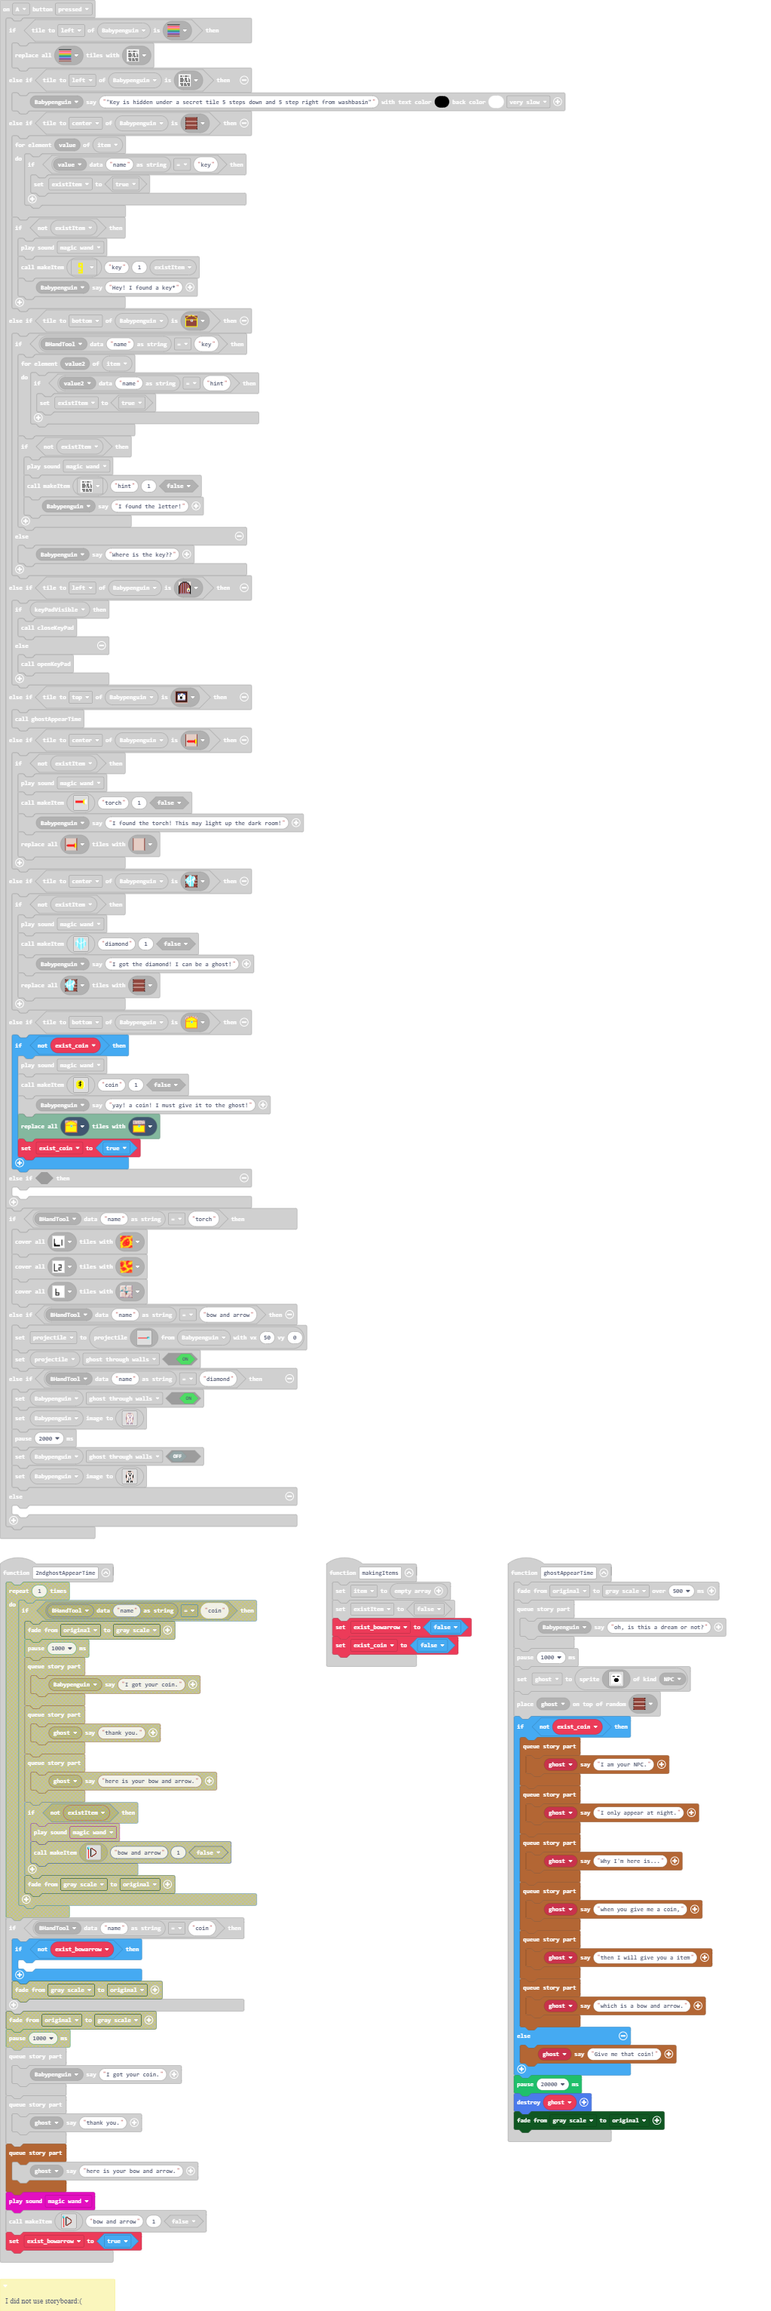
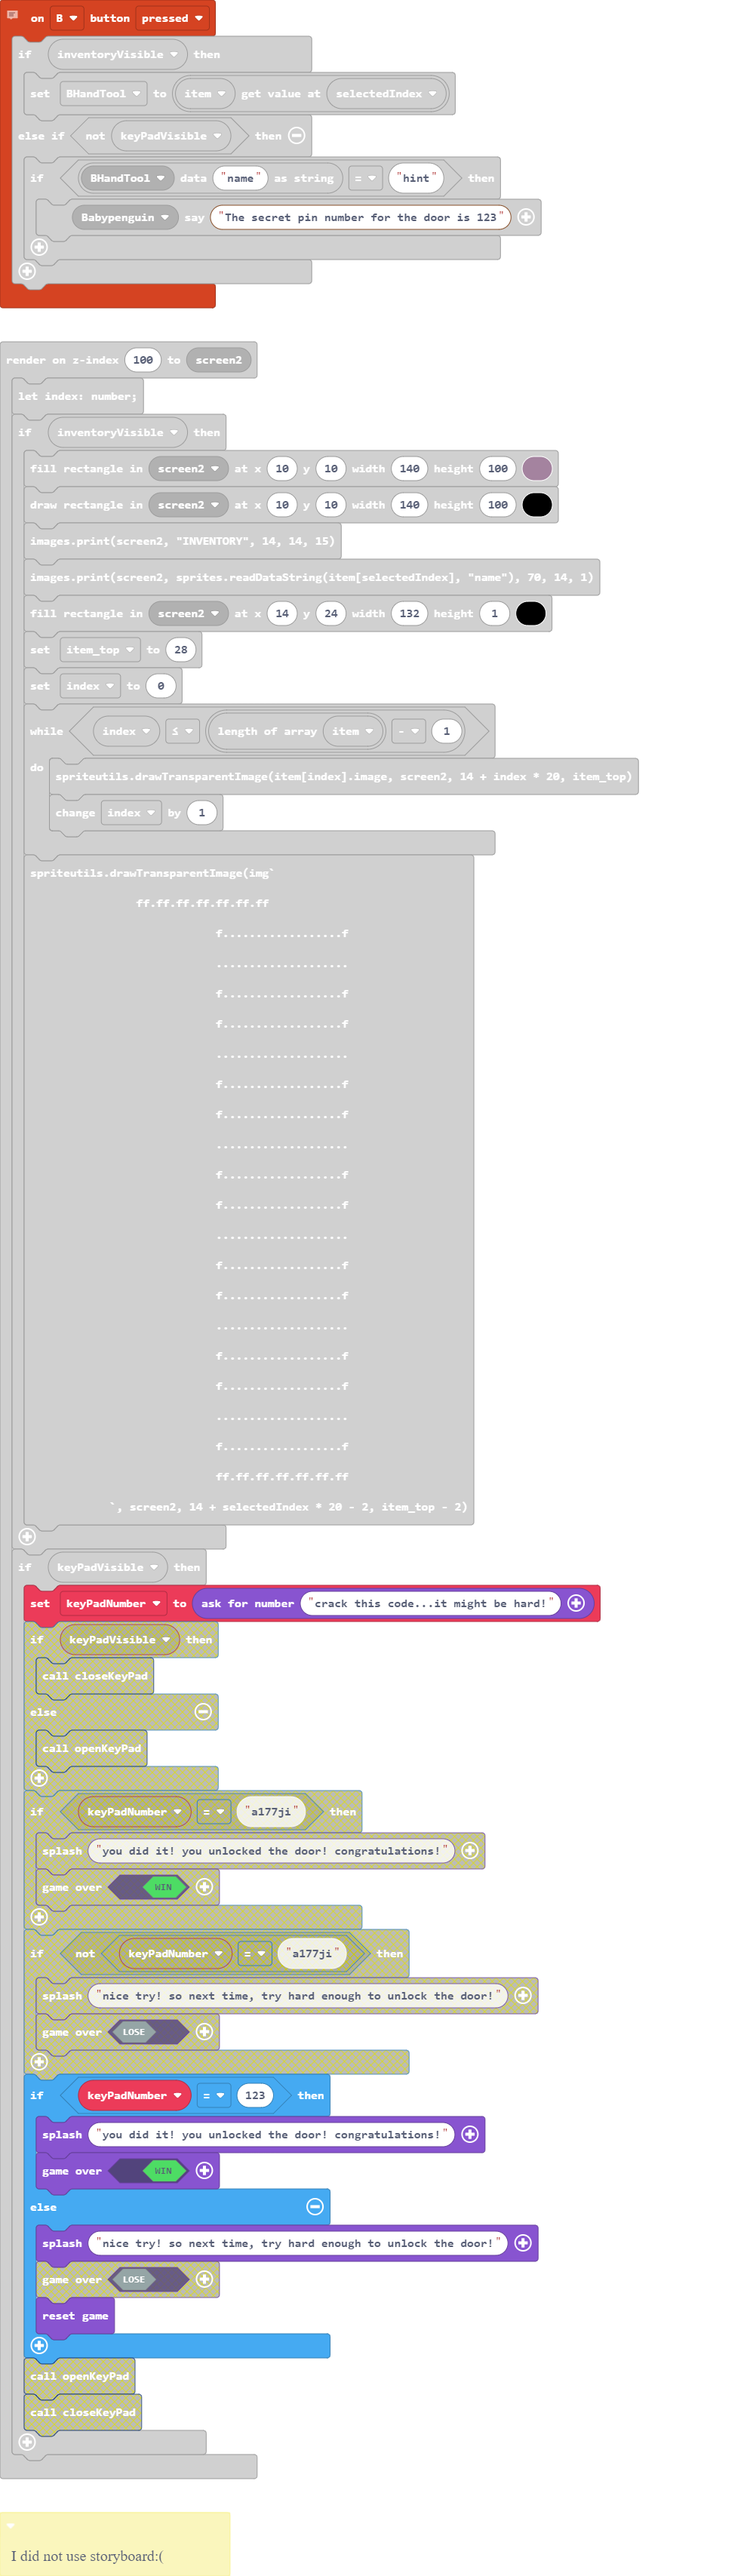
Update main.blocks, main.ts

diff --git a/main.ts b/main.ts
@@ -23,7 +23,7 @@ controller.B.onEvent(ControllerButtonEvent.Pressed, function () {
         BHandTool = item[selectedIndex]
     } else if (!(keyPadVisible)) {
         if (sprites.readDataString(BHandTool, "name") == "hint") {
-            story.spriteSayText(Babypenguin, "The secret pin number for the door is a177ji")
+            story.spriteSayText(Babypenguin, "The secret pin number for the door is 123")
         }
     }
 })
@@ -429,19 +429,13 @@ index += 1
             `, screen2, 14 + selectedIndex * 20 - 2, item_top - 2)
     }
     if (keyPadVisible) {
-        keyPadNumber = game.askForString("crack this code...it might be hard!")
-        if (keyPadVisible) {
-            closeKeyPad()
-        } else {
-            openKeyPad()
-        }
-        if (keyPadNumber == "a177ji") {
+        keyPadNumber = game.askForNumber("crack this code...it might be hard!")
+        if (keyPadNumber == 123) {
             game.splash("you did it! you unlocked the door! congratulations!")
             game.over(true)
-        }
-        if (!(keyPadNumber == "a177ji")) {
+        } else {
             game.splash("nice try! so next time, try hard enough to unlock the door!")
-            game.over(false)
+            game.reset()
         }
     }
 })
@@ -511,7 +505,7 @@ scene.onOverlapTile(SpriteKind.Player, assets.tile`myTile41`, function (sprite, 
     game.reset()
 })
 let selectedKey = 0
-let keyPadNumber = ""
+let keyPadNumber = 0
 let ghost: Sprite = null
 let exist_bowarrow = false
 let newItem: Sprite = null
